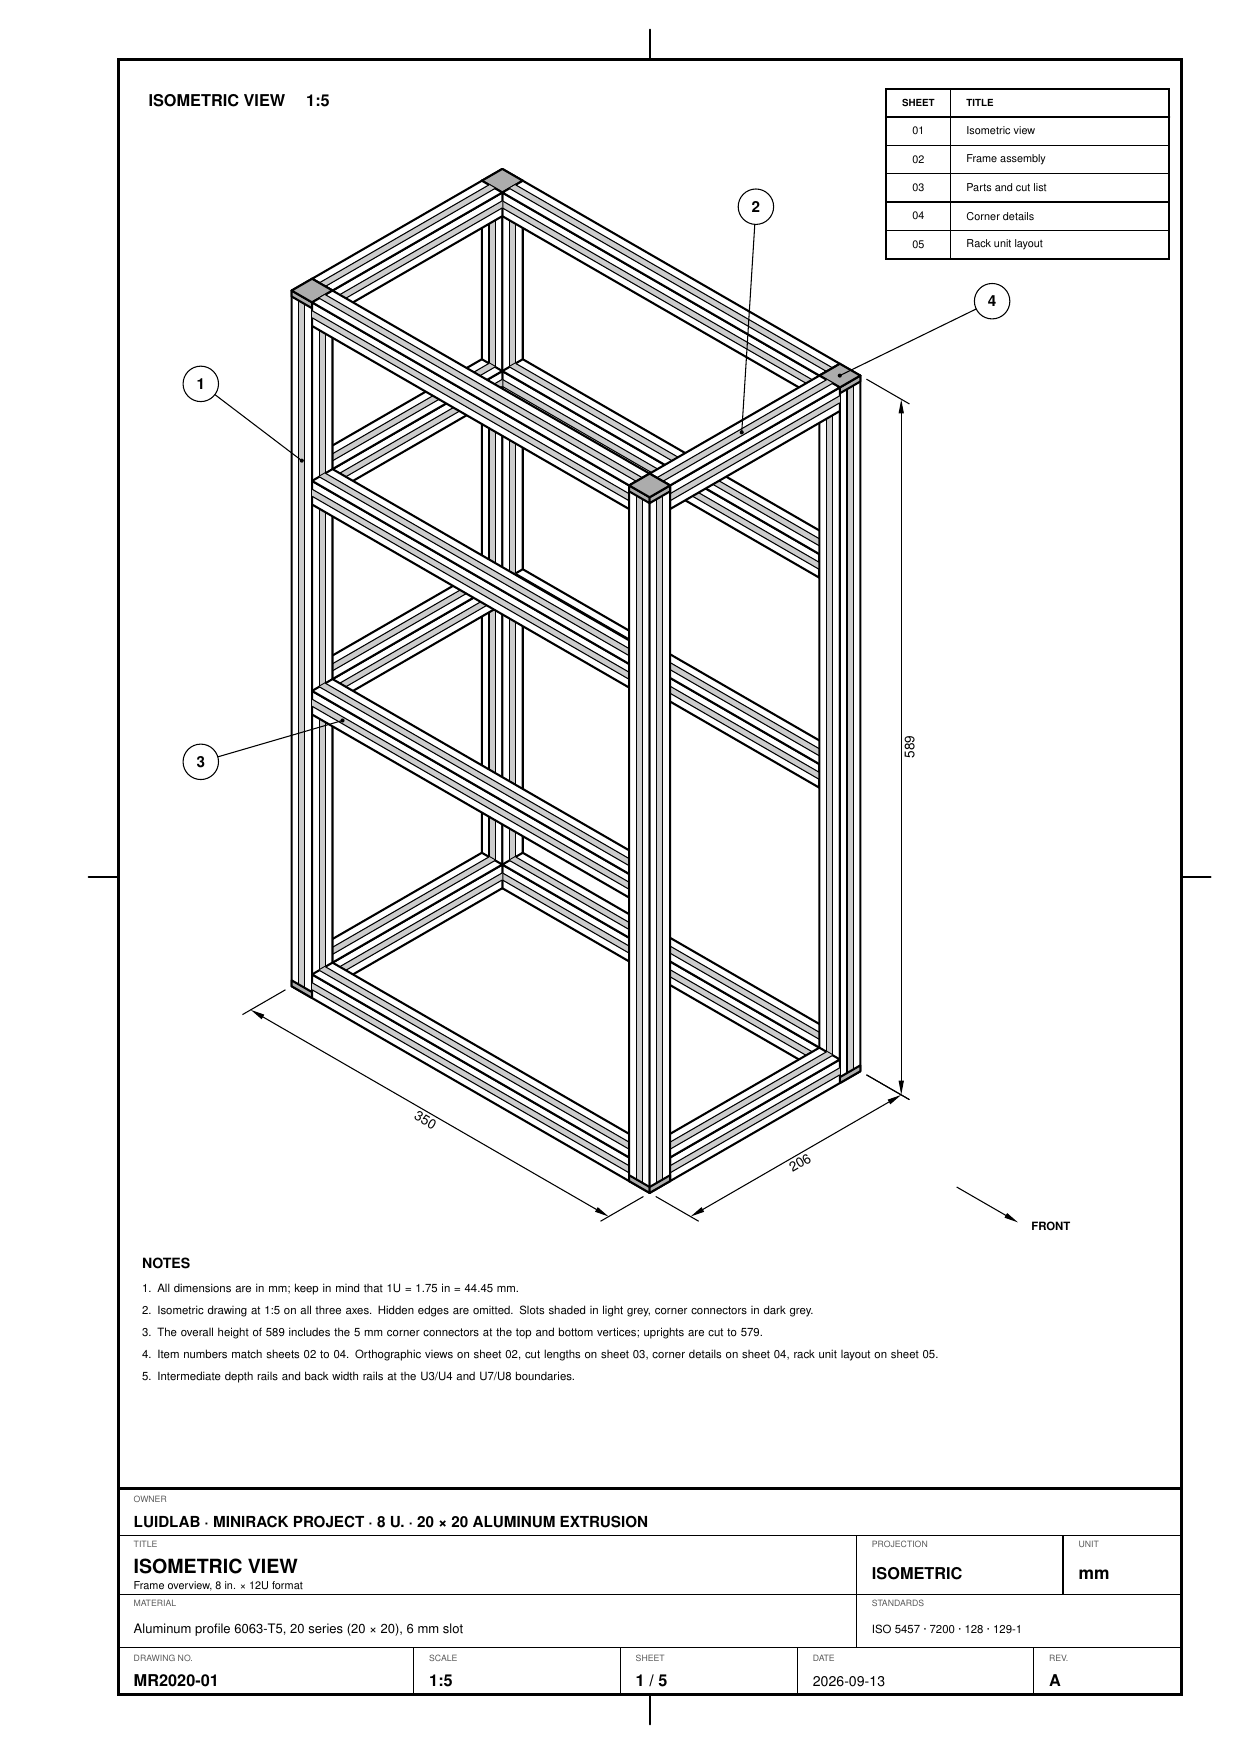
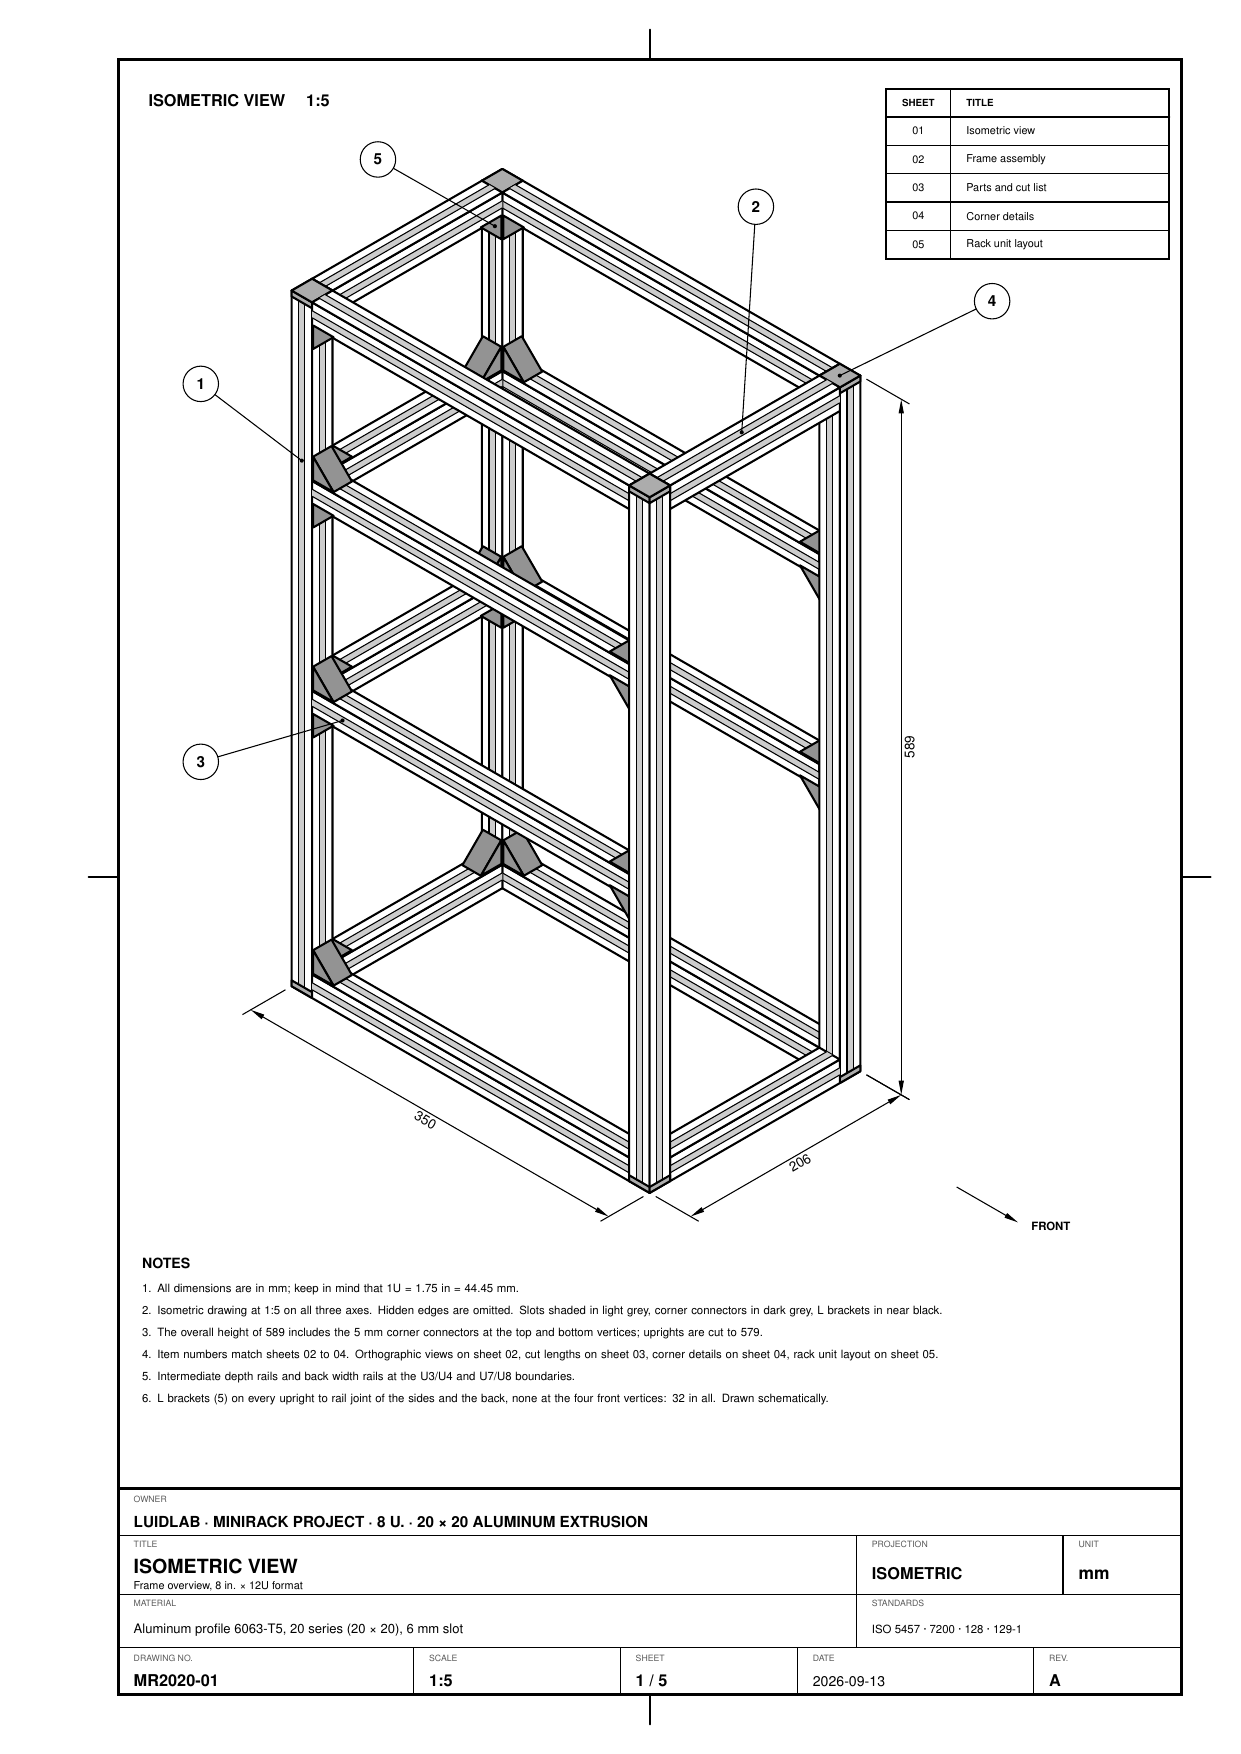
feat(rack): add L corner brackets and hardware list
Draw the 32 L brackets on sheets 01, 02 and 04: two at each back vertex,
two at each front intermediate joint and four at each back intermediate
joint, none at the front vertices. Sheet 02 now lists the purchased
hardware (corner connectors, L brackets, hammer nuts, button head
screws) with what is already in stock, mirrored in the rack README.

diff --git a/rack/desenhos/02-estrutura.tex b/rack/desenhos/02-estrutura.tex
@@ -14,6 +14,10 @@
 \newcommand{\ret}[7][linhaA]{%
   \draw[#1] ({#2+(#4)*\Esc},{#3+(#5)*\Esc}) rectangle ({#2+(#6)*\Esc},{#3+(#7)*\Esc});}
 % top view: front at the bottom (first angle), p measured from back to front
+% L bracket seen square-on, right angle at (a,z), legs da and dz: \cant{ox}{oy}{a}{z}{da}{dz}
+\newcommand{\cant}[6]{%
+  \filldraw[linhaA, fill=cantoneira] ({#1+(#3)*\Esc},{#2+(#4)*\Esc}) -- ({#1+(#3+(#5))*\Esc},{#2+(#4)*\Esc})
+    -- ({#1+(#3)*\Esc},{#2+(#4+(#6))*\Esc}) -- cycle;}
 \newcommand{\retT}[4]{%
   \draw[linhaA] ({\TX+(#1)*\Esc},{\TY+(350-(#2))*\Esc}) rectangle ({\TX+(#3)*\Esc},{\TY+(350-(#4))*\Esc});}
 
@@ -45,6 +49,13 @@
     \draw[linhaF] ({\FX+\x*\Esc},{\FY+(\z+10)*\Esc}) -- ({\FX+(\x+20)*\Esc},{\FY+(\z+10)*\Esc});
     \draw[linhaF] ({\FX+\x*\Esc},{\FY+(\z-10)*\Esc}) -- ({\FX+(\x+20)*\Esc},{\FY+(\z-10)*\Esc});
   }}
+% back plane L brackets, seen through the frame
+\foreach \x/\d in {20/\CantL,186/-\CantL}{
+  \cant{\FX}{\FY}{\x}{569}{\d}{-\CantL}
+  \cant{\FX}{\FY}{\x}{20}{\d}{\CantL}
+  \foreach \z in {\EA,\EB}{
+    \cant{\FX}{\FY}{\x}{\z+10}{\d}{\CantL}
+    \cant{\FX}{\FY}{\x}{\z-10}{\d}{-\CantL}}}
 % axis of symmetry
 \draw[linhaG] ({\FX+103*\Esc},{\FY-2}) -- ({\FX+103*\Esc},{\FY+589*\Esc+2});
 
@@ -79,6 +90,13 @@
 \foreach \z in {\EA,\EB}{
   \draw[linhaF] ({\LX},{\LY+(\z+10)*\Esc}) -- ({\LX+20*\Esc},{\LY+(\z+10)*\Esc});
   \draw[linhaF] ({\LX},{\LY+(\z-10)*\Esc}) -- ({\LX+20*\Esc},{\LY+(\z-10)*\Esc});}
+% side L brackets: back vertices, back and front intermediate joints (none at the front vertices)
+\cant{\LX}{\LY}{20}{569}{\CantL}{-\CantL}
+\cant{\LX}{\LY}{20}{20}{\CantL}{\CantL}
+\foreach \z in {\EA,\EB}{
+  \foreach \p/\d in {20/\CantL,330/-\CantL}{
+    \cant{\LX}{\LY}{\p}{\z+10}{\d}{\CantL}
+    \cant{\LX}{\LY}{\p}{\z-10}{\d}{-\CantL}}}
 % intermediate rail axes
 \draw[linhaG] ({\LX-2},{\LY+\EA*\Esc}) -- ({\LX+350*\Esc+2},{\LY+\EA*\Esc});
 \draw[linhaG] ({\LX-2},{\LY+\EB*\Esc}) -- ({\LX+350*\Esc+2},{\LY+\EB*\Esc});
@@ -92,6 +110,7 @@
 \node[txtcota, above, rotate=90] at (172,{\LY+(\EA+\EB)/2*\Esc}) {157.80};
 
 \node[txtrot] at ({\LX+340*\Esc},282.6) {FRONT};
+\balao{5}{108}{236}{\LX+25*\Esc}{\LY+(\EA+16)*\Esc}
 \balao{3}{155}{230}{155}{\LY+(\EA-6)*\Esc}
 
 \node[txtvista] at ({\LX+175*\Esc},144.5) {LEFT SIDE VIEW};
@@ -131,26 +150,29 @@
 % ============================================================
 %  ITEM LIST
 % ============================================================
-\begin{scope}[shift={(110,49)}]
-  \draw[line width=0.35mm] (0,0) rectangle (88,27);
-  \draw[linhaA] (0,21.6) -- (88,21.6);
-  \foreach \y in {5.4,10.8,16.2}{\draw[linhaB] (0,\y) -- (88,\y);}
-  \foreach \x in {10,55,65}{\draw[linhaB] (\x,0) -- (\x,27);}
+\begin{scope}[shift={(110,47)}]
+  \draw[line width=0.35mm] (0,0) rectangle (88,28.8);
+  \draw[linhaA] (0,25.2) -- (88,25.2);
+  \foreach \y in {3.6,7.2,...,21.6}{\draw[linhaB] (0,\y) -- (88,\y);}
+  \foreach \x in {10,55,65}{\draw[linhaB] (\x,0) -- (\x,28.8);}
   \def\cab{\fontsize{1.9mm}{2.2mm}\selectfont\bfseries}
   \def\cel{\fontsize{2.2mm}{2.6mm}\selectfont}
-  \node[font=\cab] at (5,24.3) {ITEM};
-  \node[font=\cab, anchor=west] at (11.2,24.3) {DESCRIPTION};
-  \node[font=\cab] at (60,24.3) {QTY};
-  \node[font=\cab, anchor=west] at (66.2,24.3) {NOTE};
+  \node[font=\cab] at (5,27) {ITEM};
+  \node[font=\cab, anchor=west] at (11.2,27) {DESCRIPTION};
+  \node[font=\cab] at (60,27) {QTY};
+  \node[font=\cab, anchor=west] at (66.2,27) {NOTE};
   \def\lin#1#2#3#4#5{%
     \node[font=\cel] at (5,#1) {#2};
     \node[font=\cel, anchor=west] at (11.2,#1) {#3};
     \node[font=\cel] at (60,#1) {#4};
     \node[font=\cel, anchor=west] at (66.2,#1) {#5};}
-  \lin{18.9}{1}{Upright}{4}{cut 579}
-  \lin{13.5}{2}{Width rail}{6}{cut 166}
-  \lin{8.1}{3}{Depth rail}{8}{cut 310}
-  \lin{2.7}{4}{3-way corner connector}{8}{purchased}
+  \lin{23.4}{1}{Upright}{4}{cut 579}
+  \lin{19.8}{2}{Width rail}{6}{cut 166}
+  \lin{16.2}{3}{Depth rail}{8}{cut 310}
+  \lin{12.6}{4}{3-way corner connector}{8}{4 in stock}
+  \lin{9}{5}{L corner bracket, 2 holes}{32}{16 in stock}
+  \lin{5.4}{6}{Hammer nut, 20 series}{64}{8 in stock}
+  \lin{1.8}{7}{Button head hex screw, 8 mm}{64}{purchased}
 \end{scope}
 
 % ============================================================
@@ -166,7 +188,10 @@
   4. First angle projection. The front is on the right in the side view and at the bottom in
      the top view.\\[1mm]
   5. Intermediate depth rails and back width rails at the U3/U4 and U7/U8 boundaries.\\[1mm]
-  6. Cut lengths on sheet~03.};
+  6. Cut lengths on sheet~03.\\[1mm]
+  7. L brackets (5) at every upright to rail joint of the sides and the back, none at the front
+     vertices, which stay clear for the rack panels. Each takes two hammer nuts (6) and two
+     screws (7).};
 
 \legenda{FRAME ASSEMBLY}{20 × 20 extrusion, 8 in. × 12U format}{MR2020-02}{1:5}{2}{5}
 

diff --git a/rack/desenhos/01-isometrica.tex b/rack/desenhos/01-isometrica.tex
@@ -49,6 +49,24 @@
     \draw[linhaB] ({#1},{#3},{#5+\o}) -- ({#1},{#4},{#5+\o});
     \draw[linhaB] ({#1+\o},{#3},{#6}) -- ({#1+\o},{#4},{#6});}}
 
+% L brackets of one side plane, across x1..x2: back vertices, back and front intermediate joints
+% (no bracket at the front vertices): \ladoCant{x1}{x2}
+\newcommand{\ladoCant}[2]{%
+  \cantYZ{#1}{#2}{330}{569}{-\CantL}{-\CantL}
+  \cantYZ{#1}{#2}{330}{20}{-\CantL}{\CantL}
+  \foreach \z in {\EA,\EB}{
+    \cantYZ{#1}{#2}{330}{\z+10}{-\CantL}{\CantL}
+    \cantYZ{#1}{#2}{330}{\z-10}{-\CantL}{-\CantL}
+    \cantYZ{#1}{#2}{20}{\z+10}{\CantL}{\CantL}
+    \cantYZ{#1}{#2}{20}{\z-10}{\CantL}{-\CantL}}}
+% L brackets of the back plane on one back upright, inner face at x, legs towards dx: \fundoCant{x}{dx}
+\newcommand{\fundoCant}[2]{%
+  \cantXZ{331}{349}{#1}{569}{#2}{-\CantL}
+  \cantXZ{331}{349}{#1}{20}{#2}{\CantL}
+  \foreach \z in {\EA,\EB}{
+    \cantXZ{331}{349}{#1}{\z+10}{#2}{\CantL}
+    \cantXZ{331}{349}{#1}{\z-10}{#2}{-\CantL}}}
+
 \begin{folha}
 
 % title block shows the projection method as text on this sheet
@@ -72,15 +90,19 @@
   \drS{186}{206}{20}{330}{\EB-10}{\EB+10}
   \drS{186}{206}{20}{330}{\EA-10}{\EA+10}
   \drS{186}{206}{20}{330}{569}{589}
+  \ladoCant{187}{205}                             % right side L brackets
   \wrS{20}{186}{330}{350}{0}{20}                  % back width rails, bottom to top
   \wrS{20}{186}{330}{350}{\EB-10}{\EB+10}
   \wrS{20}{186}{330}{350}{\EA-10}{\EA+10}
   \wrS{20}{186}{330}{350}{569}{589}
+  \fundoCant{186}{-\CantL}                        % back plane L brackets
+  \fundoCant{20}{\CantL}
   \upS{0}{20}{330}{350}                           % back left upright
   \drS{0}{20}{20}{330}{0}{20}                     % left depth rails, bottom to top
   \drS{0}{20}{20}{330}{\EB-10}{\EB+10}
   \drS{0}{20}{20}{330}{\EA-10}{\EA+10}
   \drS{0}{20}{20}{330}{569}{589}
+  \ladoCant{1}{19}                                % left side L brackets
   \upS{186}{206}{0}{20}                           % front right upright
   \wrS{20}{186}{0}{20}{0}{20}                     % front width rails
   \wrS{20}{186}{0}{20}{569}{589}
@@ -107,6 +129,7 @@
 \balao{2}{128}{262}{125.6}{223.8}  % front top width rail
 \balao{3}{34}{168}{58}{175}        % left intermediate depth rail
 \balao{4}{168}{246}{142.2}{233.4}  % top corner connector
+\balao{5}{64}{270}{83.8}{258.7}    % L bracket, top back right vertex
 
 % ============================================================
 %  SHEET INDEX
@@ -134,10 +157,11 @@
   \hyphenpenalty=10000\exhyphenpenalty=10000
   {\fontsize{2.6mm}{3mm}\selectfont\bfseries NOTES}\\[1.4mm]
   1. All dimensions are in mm; keep in mind that 1U~=~1.75~in~=~44.45~mm.\\[1mm]
-  2. Isometric drawing at 1:5 on all three axes. Hidden edges are omitted. Slots shaded in light grey, corner connectors in dark grey.\\[1mm]
+  2. Isometric drawing at 1:5 on all three axes. Hidden edges are omitted. Slots shaded in light grey, corner connectors in dark grey, L brackets in near black.\\[1mm]
   3. The overall height of 589 includes the 5~mm corner connectors at the top and bottom vertices; uprights are cut to 579.\\[1mm]
   4. Item numbers match sheets 02 to 04. Orthographic views on sheet~02, cut lengths on sheet~03, corner details on sheet~04, rack unit layout on sheet~05.\\[1mm]
-  5. Intermediate depth rails and back width rails at the U3/U4 and U7/U8 boundaries.};
+  5. Intermediate depth rails and back width rails at the U3/U4 and U7/U8 boundaries.\\[1mm]
+  6. L brackets (5) on every upright to rail joint of the sides and the back, none at the four front vertices: 32 in all. Drawn schematically.};
 
 \legenda{ISOMETRIC VIEW}{Frame overview, 8 in. × 12U format}{MR2020-01}{1:5}{1}{5}
 

diff --git a/rack/desenhos/04-vertices.tex b/rack/desenhos/04-vertices.tex
@@ -54,6 +54,11 @@
   \filldraw[linhaA, fill=conector] (186,330,584) -- (206,330,584) -- (206,330,589) -- (186,330,589) -- cycle;
   \filldraw[linhaA, fill=conector] (186,330,589) -- (206,330,589) -- (206,350,589) -- (186,350,589) -- cycle;
 
+  % ---- L brackets under the rails: side plane on the upright front face, back plane on its inner face ----
+  \vista{-1}{-1}{1}
+  \cantYZ{187}{205}{330}{569}{-\CantL}{-\CantL}
+  \cantXZ{331}{349}{186}{569}{-\CantL}{-\CantL}
+
   % ---- width rail stub, cut at X = 146 (X 146..186, Y 330..350, Z 569..589) ----
   \filldraw[linhaA, fill=white] (146,330,569) -- (186,330,569) -- (186,330,589) -- (146,330,589) -- cycle;
   \filldraw[linhaA, fill=white] (146,330,589) -- (186,330,589) -- (186,350,589) -- (146,350,589) -- cycle;
@@ -84,6 +89,9 @@
 \chamada{66.7}{222}{40}{200}{north west}{WIDTH RAIL (2), CUT END}
 \chamada{153.3}{222}{180}{200}{north east}{DEPTH RAIL (3), CUT END}
 \chamada{118.7}{197}{118.7}{190}{north}{UPRIGHT (1), BROKEN BELOW}
+\chamada{103.3}{222}{85}{196}{north east}{L BRACKET (5)}
+\fill (116.7,222.5) circle (0.35mm);
+\draw[linhaB] (116.7,222.5) -- (85,196);
 
 % ============================================================
 %  B  OUTSIDE: viewer at +X, +Y, +Z
@@ -91,6 +99,11 @@
 % ============================================================
 \begin{scope}[shift={(-14.7,-186)},
     x={(-0.8660254mm,-0.5mm)}, y={(0.8660254mm,-0.5mm)}, z={(0mm,1mm)}]
+
+  % ---- L brackets under the rails, outer faces seen below the rail stubs ----
+  \vista{1}{1}{1}
+  \cantYZ{187}{205}{330}{569}{-\CantL}{-\CantL}
+  \cantXZ{331}{349}{186}{569}{-\CantL}{-\CantL}
 
   % ---- width rail stub (X 146..186, Y 330..350, Z 569..589): back and top faces ----
   \filldraw[linhaA, fill=white] (146,350,569) -- (186,350,569) -- (186,350,589) -- (146,350,589) -- cycle;
@@ -133,16 +146,19 @@
 \chamada{144.6}{135}{180}{150}{south}{SLOT, 6 mm OPENING}
 \chamada{127.3}{122}{170}{95}{north west}{OUTER FACES FLUSH}
 \chamada{118.7}{70}{150}{62}{west}{UPRIGHT (1), BROKEN BELOW}
+\chamada{87.7}{112}{60}{95}{north east}{L BRACKET (5)}
+\chamada{132.3}{112}{150}{80}{north west}{L BRACKET (5)}
 
 % ============================================================
 %  NOTES
 % ============================================================
-\node[anchor=north west, txtnota, text width=120mm, align=left, inner sep=0pt] at (24,60) {%
+\node[anchor=north west, txtnota, text width=120mm, align=left, inner sep=0pt] at (24,63) {%
   \hyphenpenalty=10000\exhyphenpenalty=10000
   {\fontsize{2.6mm}{3mm}\selectfont\bfseries NOTES}\\[1mm]
   1. A: seen from inside the frame; the cut ends of the rails show the 2020 profile section.\\[0.6mm]
   2. B: seen from outside the frame; the outer faces of the upright and rails are flush.\\[0.6mm]
-  3. Corner connector drawn schematically. Item numbers as on sheets 01 to 03.};
+  3. Corner connector and L brackets drawn schematically. Item numbers as on sheets 01 to 03.\\[0.6mm]
+  4. Each back vertex takes two L brackets under the rails: side plane and back plane.};
 
 \legenda{CORNER DETAILS}{Top back right vertex, inside and outside views}{MR2020-04}{1:1}{4}{5}
 

diff --git a/rack/desenhos/03-pecas.tex b/rack/desenhos/03-pecas.tex
@@ -129,7 +129,8 @@
   5. The corner connectors add 5~mm at each end of the upright and are not part of the cut length.\\[1mm]
   6. On the back uprights the same marks also locate the back intermediate width rails.\\[1mm]
   7. The upright is drawn as an interrupted view; the dimensions give the true lengths.\\[1mm]
-  8. Profile section is schematic. Slot and bore geometry follow the supplier catalog.};
+  8. Profile section is schematic. Slot and bore geometry follow the supplier catalog.\\[1mm]
+  9. Purchased hardware (corner connectors, L brackets, hammer nuts and screws) is listed on sheet~02.};
 
 \legenda{PARTS AND CUT LIST}{Cut pieces for the 8 in. × 12U frame}{MR2020-03}{1:2 / 2:1}{3}{5}
 

diff --git a/rack/desenhos/params.tex b/rack/desenhos/params.tex
@@ -11,6 +11,8 @@
 \def\Conector{5}           % acréscimo de cada conector de canto: vale no topo E na base
 \def\Coluna{579}           % corte do upright = RackA - 2 x Conector
 
+\def\CantL{20}            % perna da cantoneira L (catálogo), largura 18 sobre a face de 20
+
 % ---------- cortes ----------
 \def\TravL{166}            % width rail, 6 peças (4 extremas + 2 intermediárias traseiras)
 \def\TravP{310}            % depth rail, 8 peças (4 extremas + 4 intermediárias laterais)

diff --git a/rack/README.md b/rack/README.md
@@ -12,7 +12,7 @@
 | Mounting hole pitch | 186 mm, EIA-310 vertical spacing |
 | Panel width | 203.2 mm (8 in.) |
 | Profile | 20 × 20, 6 mm slot, 6063-T5 |
-| Corners | 3-way corner connectors, adding 5 mm at each upright end |
+| Corners | 3-way corner connectors, adding 5 mm at each upright end, plus L brackets (see Hardware) |
 | Tray mounting | M5 drop-in T-nuts in the front slot |
 | Sides | acrylic panels, air flow from U12 (intake) to U1 (exhaust) |
 
@@ -24,6 +24,20 @@
 | Width rail | 6 | 166 |
 | Depth rail | 8 | 310 |
 | **Total profile** | | **5792** |
+
+## Hardware
+
+| Item | Qty | In stock | To buy |
+|---|---|---|---|
+| 3-way corner connector | 8 | 4 | 4 |
+| L corner bracket, 2 holes | 32 | 16 | 16 |
+| Hammer nut, 20 series | 64 | 8 | 56 |
+| Button head hex screw, silver, 8 mm thread (10 mm overall, about 8 mm head) | 64 | 0 | 64 |
+
+L brackets go on every upright to rail joint of the sides and the back: 2 at each back vertex,
+2 at each intermediate joint on the front uprights and 4 at each intermediate joint on the back
+uprights. The four front vertices take none, so the front stays clear for the rack panels.
+Each bracket takes two hammer nuts and two screws.
 
 ## Unit layout
 
